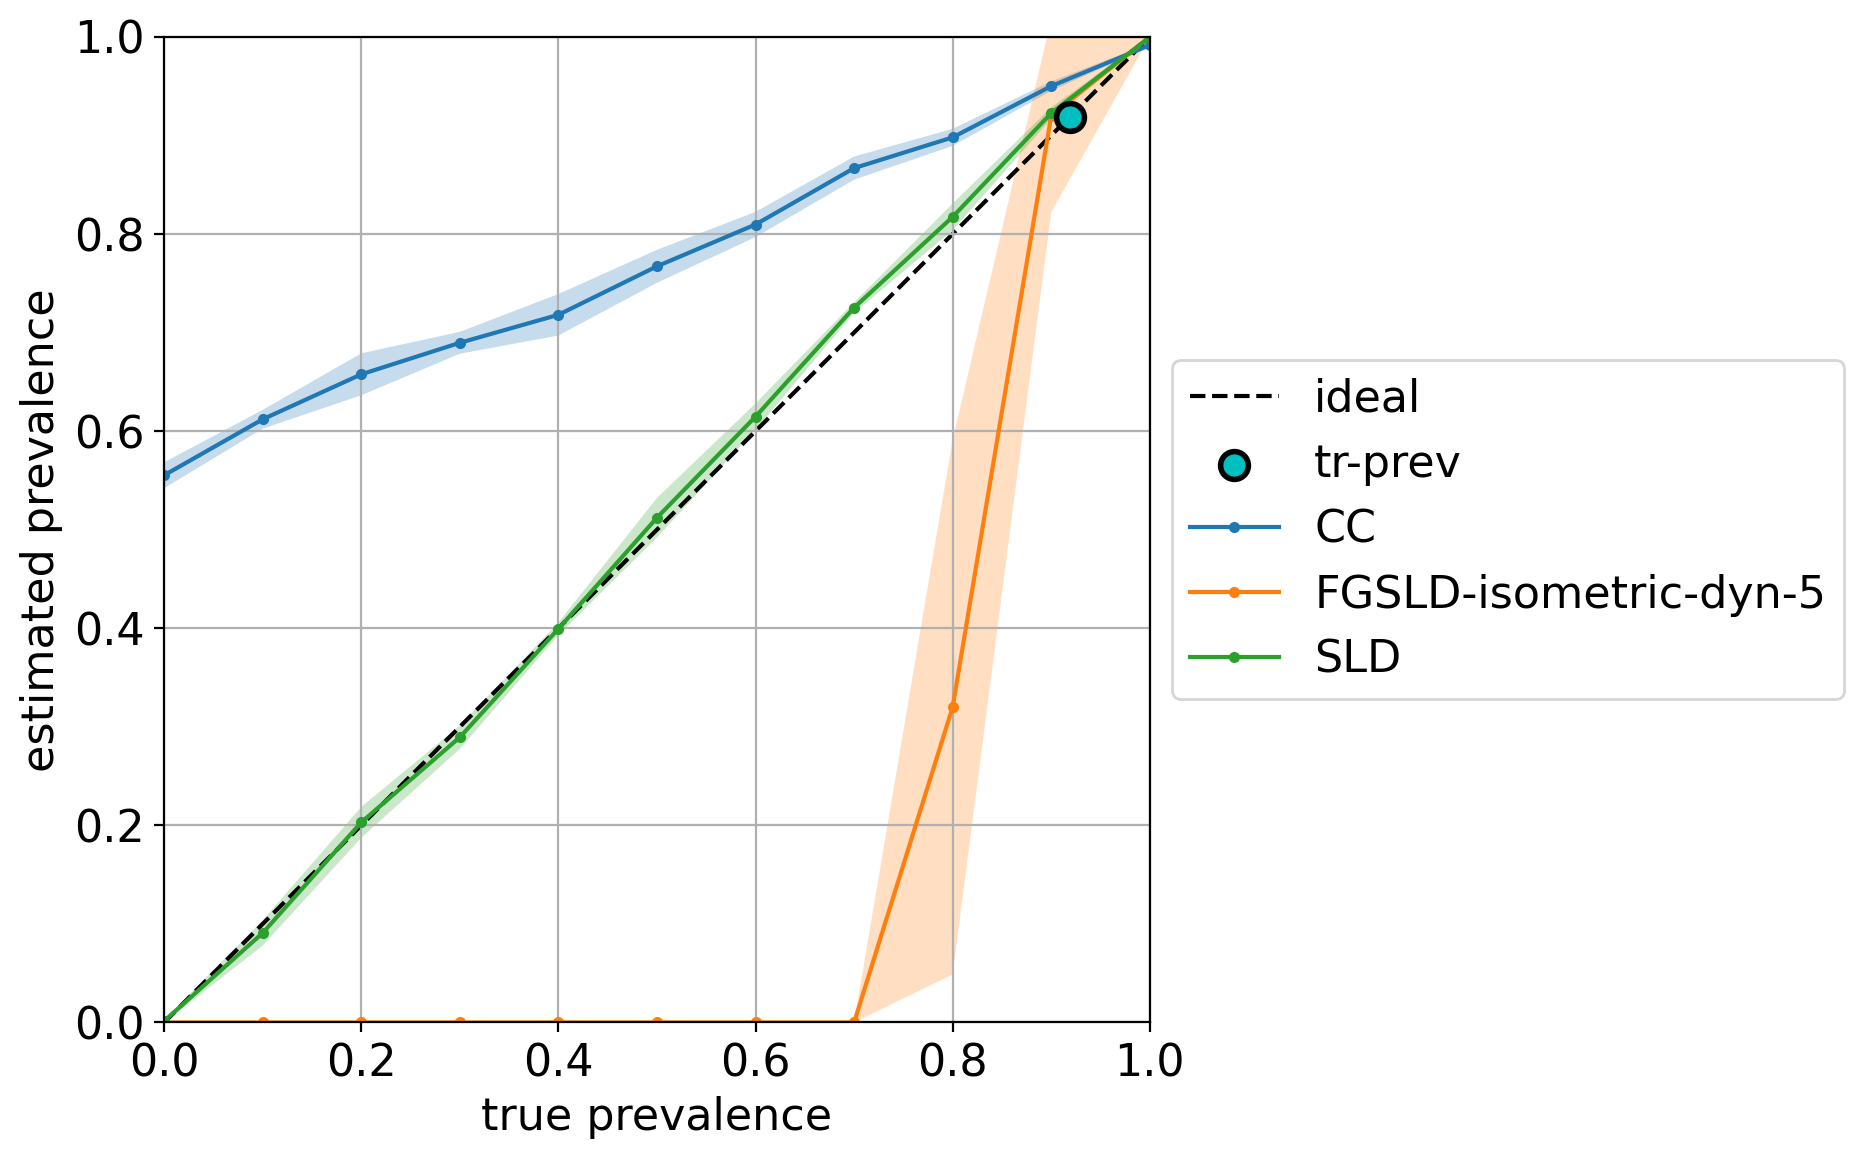
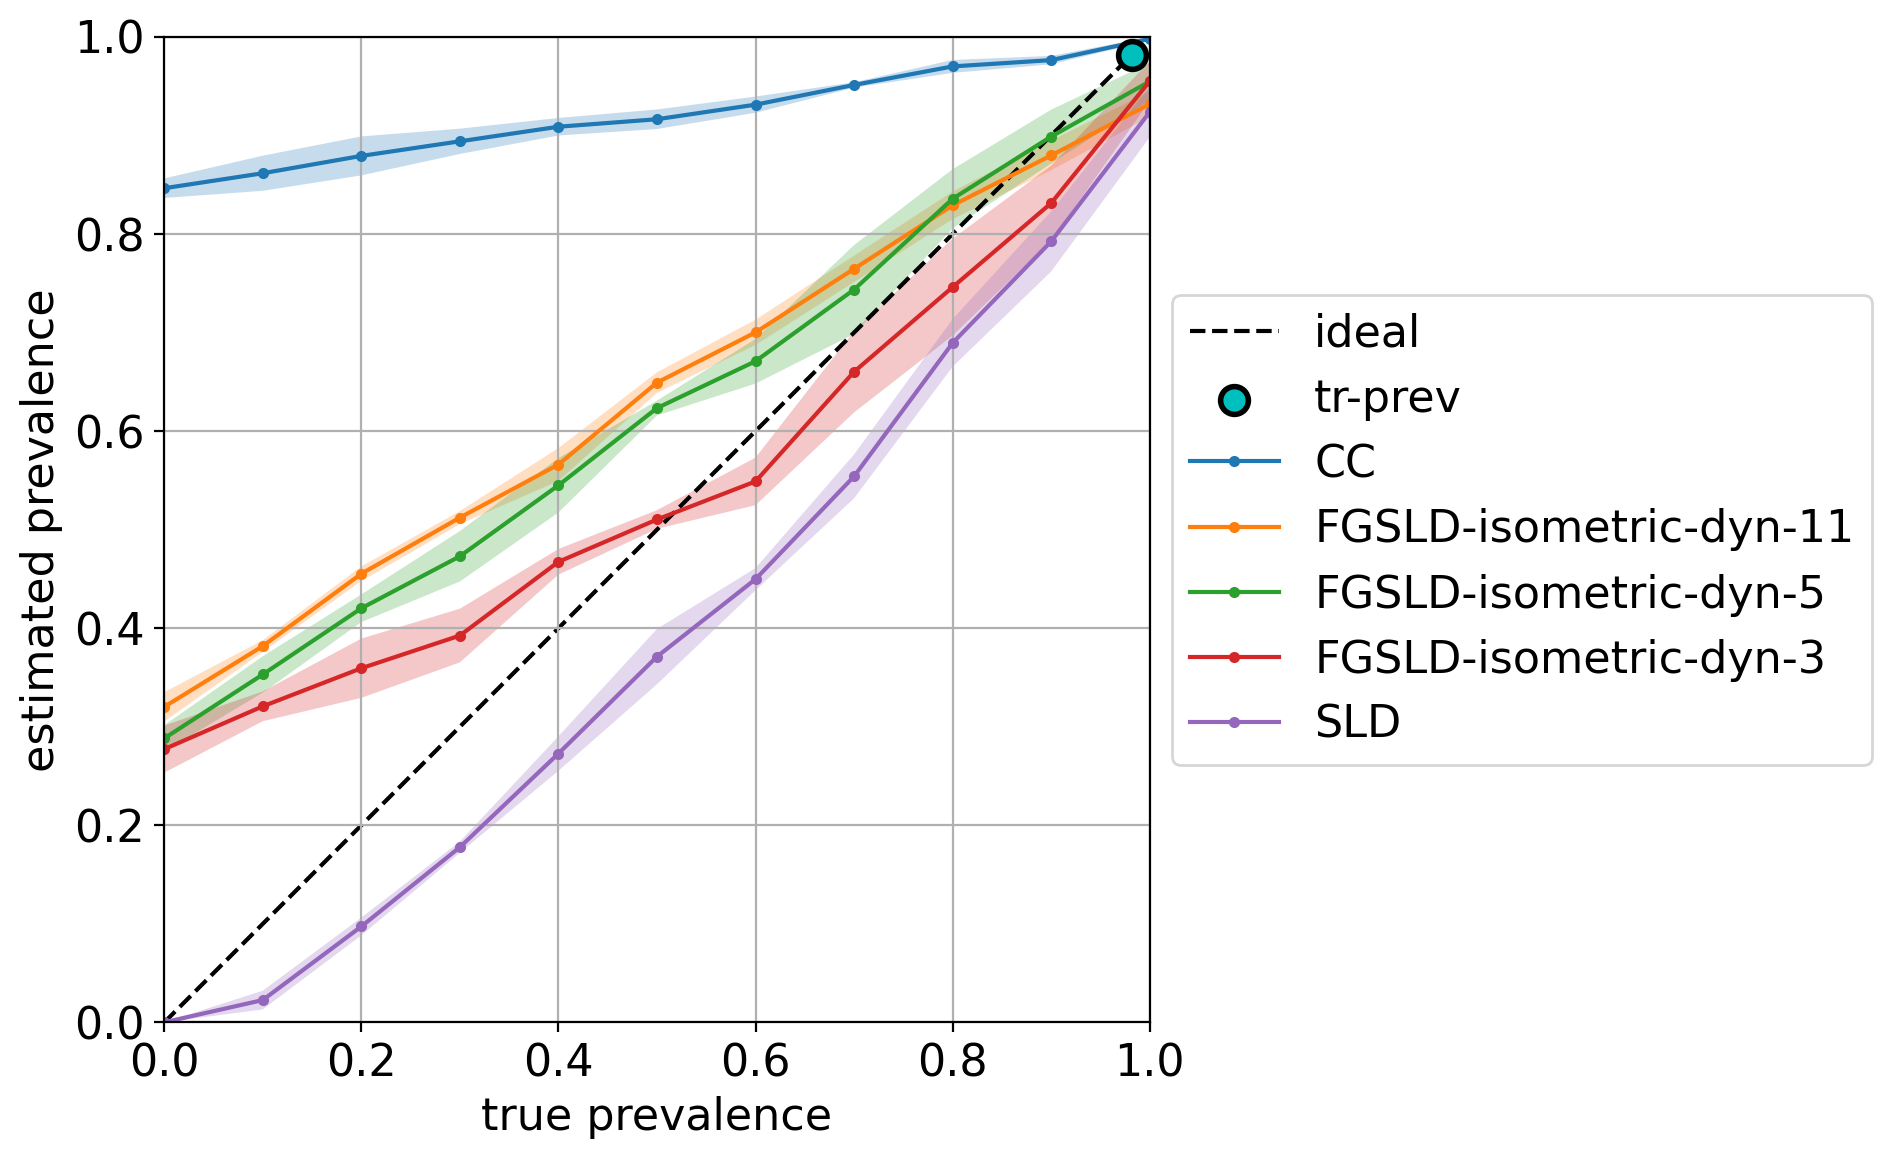
more fgsld

diff --git a/NewMethods/fgsld/fine_grained_sld.py b/NewMethods/fgsld/fine_grained_sld.py
@@ -1,9 +1,9 @@
 import numpy as np
-from metrics import isomerous_bins, isometric_bins
-from em import History, get_measures_single_history
+from NewMethods.fgsld.metrics import isomerous_bins, isometric_bins
+from NewMethods.fgsld.em import History, get_measures_single_history
 from sklearn.model_selection import cross_val_predict
 import math
-
+from scipy.special import softmax
 
 class FineGrainedSLD:
     def __init__(self, x_tr, x_te, y_tr, tr_priors, clf, n_bins=10):
@@ -16,7 +16,7 @@ class FineGrainedSLD:
         self.history: [History] = []
         self.multi_class = False
 
-    def run(self, isomerous_binning, epsilon=1e-6, compute_bins_at_every_iter=True, return_posteriors_hist=False):
+    def run(self, isomerous_binning, epsilon=1e-6, compute_bins_at_every_iter=True):
         """
         Run the FGSLD algorithm.
 
@@ -26,22 +26,18 @@ class FineGrainedSLD:
         :param return_posteriors_hist: whether to return posteriors at every iteration or not.
         :return: If `return_posteriors_hist` is true, the returned posteriors will be a list of numpy arrays, else a single numpy array with posteriors at last iteration.
         """
-        smoothing_tr = 1 / (2 * self.tr_preds.shape[0])
-        smoothing_te = 1 / (2 * self.te_preds.shape[0])
+        smoothing_tr = 1e-9  # 1 / (2 * self.tr_preds.shape[0])
+        smoothing_te = 1e-9  # 1 / (2 * self.te_preds.shape[0])
         s = 0
         tr_bin_priors = np.zeros((self.n_bins, self.tr_preds.shape[1]), dtype=np.float)
         te_bin_priors = np.zeros((self.n_bins, self.te_preds.shape[1]), dtype=np.float)
         tr_bins = self.__create_bins(training=True, isomerous_binning=isomerous_binning)
-        te_bins = self.__create_bins(training=False, isomerous_binning=isomerous_binning)
         self.__compute_bins_priors(tr_bin_priors, self.tr_preds, tr_bins, smoothing_tr)
 
+        te_preds_cp = self.te_preds.copy()
         val = 2 * epsilon
-        if return_posteriors_hist:
-            posteriors_hist = [self.te_preds.copy()]
         while not val < epsilon and s < 1000:
-            assert np.all(np.around(self.te_preds.sum(axis=1), 4) == 1), f"Probabilities do not sum to 1:\ns={s}, " \
-                                                                         f"probs={self.te_preds.sum(axis=1)}"
-            if compute_bins_at_every_iter:
+            if compute_bins_at_every_iter or s==0:
                 te_bins = self.__create_bins(training=False, isomerous_binning=isomerous_binning)
 
             if s == 0:
@@ -50,34 +46,47 @@ class FineGrainedSLD:
                 te_bin_priors_prev = te_bin_priors.copy()
             self.__compute_bins_priors(te_bin_priors, self.te_preds, te_bins, smoothing_te)
 
-            te_preds_cp = self.te_preds.copy()
             for label_idx, bins in te_bins.items():
                 for i, bin_ in enumerate(bins):
                     if bin_.shape[0] == 0:
                         continue
-                    te = te_bin_priors[i][label_idx]
-                    tr = tr_bin_priors[i][label_idx]
-                    # local_min = (math.floor(tr * 10) / 10)
+                    alpha = 1
+                    beta = 0.1
+                    local_te = te_bin_priors[i][label_idx]
+                    global_te = self.te_preds[:,label_idx].mean()
+                    te = local_te*alpha + global_te*(1-alpha)
+                    local_tr = tr_bin_priors[i][label_idx]
+                    global_tr = self.tr_priors[label_idx]
+                    tr = local_tr*beta + global_tr*(1-beta)
+                    #local_min = (math.floor(tr * self.n_bins) / self.n_bins)
                     # local_max = local_min + .1
                     # trans = lambda l: min(max((l - local_min) / 1, 0), 1)
-                    trans = lambda l: l
-                    self.te_preds[:, label_idx][bin_] = (te_preds_cp[:, label_idx][bin_]) * \
-                                                        (trans(te) / trans(tr))
+                    assert not isomerous_binning, 'not tested'
+                    #trans = lambda l: l - local_min
+                    # trans = lambda l: l
+                    # ratio = (trans(te) / trans(tr))
+                    #ratio = np.clip(ratio, 0.1, 2)
+                    #ratio = ratio**3
+                    #self.te_preds[:, label_idx][bin_] = (te_preds_cp[:, label_idx][bin_]) * ratio
+                    old_posterior = te_preds_cp[:, label_idx][bin_]
+                    lr = 1
+                    #self.te_preds[:, label_idx][bin_] = np.clip(old_posterior + (te-tr)*lr, 0, None)
+                    self.te_preds[:, label_idx][bin_] = np.clip(old_posterior + (te - tr) * lr, 0, None)
+                    #self.te_preds[:, label_idx][bin_] = (te_preds_cp[:, label_idx][bin_]) * ratio
 
             # Normalization step
             self.te_preds = (self.te_preds / self.te_preds.sum(axis=1, keepdims=True))
+            #self.te_preds = softmax(self.te_preds, axis=1)
 
-            val = 0
-            for label_idx in range(te_bin_priors.shape[1]):
-                temp = max(abs((te_bin_priors[:, label_idx] / te_bin_priors_prev[:, label_idx]) - 1))
-                if temp > val:
-                    val = temp
+            val = np.max(np.abs(te_bin_priors / te_bin_priors_prev) - 1)
             s += 1
-            if return_posteriors_hist:
-                posteriors_hist.append(self.te_preds.copy())
-        if return_posteriors_hist:
-            return self.te_preds.mean(axis=0), posteriors_hist
-        return self.te_preds.mean(axis=0), self.te_preds
+
+        self.iterations = s
+
+        priors = self.te_preds.mean(axis=0)
+        posteriors = self.te_preds
+
+        return priors, posteriors
 
     def __compute_bins_priors(self, bin_priors_placeholder, posteriors, bins, smoothing):
         for label_idx, bins in bins.items():
@@ -85,22 +94,9 @@ class FineGrainedSLD:
                 if bin_.shape[0] == 0:
                     bin_priors_placeholder[i, label_idx] = smoothing
                     continue
-                numerator = posteriors[:, label_idx][bin_].mean()
+                numerator = posteriors[bin_, label_idx].mean()
                 bin_prior = (numerator + smoothing) / (1 + self.n_bins * smoothing)  # normalize priors
                 bin_priors_placeholder[i, label_idx] = bin_prior
-
-    def __find_bin_idx(self, label_bins: [np.array], idx: int or list):
-        if hasattr(idx, '__len__'):
-            idxs = np.zeros(len(idx), dtype=np.int)
-            for i, bin_ in enumerate(label_bins):
-                for j, id_ in enumerate(idx):
-                    if id_ in bin_:
-                        idxs[j] = i
-            return idxs
-        else:
-            for i, bin_ in enumerate(label_bins):
-                if idx in bin_:
-                    return i
 
     def __create_bins(self, training: bool, isomerous_binning: bool):
         bins = {}
@@ -111,6 +107,6 @@ class FineGrainedSLD:
         else:
             intervals = np.linspace(0., 1., num=self.n_bins, endpoint=False)
             for label_idx in range(preds.shape[1]):
-                bins_ = isometric_bins(label_idx, preds, intervals, 0.1)
+                bins_ = isometric_bins(label_idx, preds, intervals)
                 bins[label_idx] = [bins_[i] for i in intervals]
         return bins

diff --git a/NewMethods/fgsld/fglsd_test.py b/NewMethods/fgsld/fglsd_test.py
@@ -1,13 +1,15 @@
 from sklearn.calibration import CalibratedClassifierCV
+from sklearn.linear_model import LogisticRegression
 from sklearn.svm import LinearSVC
-from fgsld.fgsld_quantifiers import FakeFGLSD
+from fgsld_quantifiers import FakeFGLSD
 from method.aggregative import EMQ, CC
 import quapy as qp
+import numpy as np
 
 
 qp.environ['SAMPLE_SIZE'] = 500
 
-dataset = qp.datasets.fetch_reviews('kindle')
+dataset = qp.datasets.fetch_reviews('hp')
 qp.data.preprocessing.text2tfidf(dataset, min_df=5, inplace=True)
 
 training = dataset.training
@@ -15,22 +17,22 @@ test = dataset.test
 
 cls = CalibratedClassifierCV(LinearSVC())
 
+#cls = LogisticRegression()
+
 
 method_names, true_prevs, estim_prevs, tr_prevs = [], [], [], []
 
 for model, model_name in [
     (CC(cls), 'CC'),
-    # (FakeFGLSD(cls, nbins=5, isomerous=False, recompute_bins=False), 'FGSLD-isometric-stat-5'),
-    (FakeFGLSD(cls, nbins=5, isomerous=True, recompute_bins=True), 'FGSLD-isometric-dyn-5'),
-    # (FakeFGLSD(cls, nbins=5, isomerous=True, recompute_bins=False), 'FGSLD-isomerous-stat-5'),
-    # (FakeFGLSD(cls, nbins=10, isomerous=True, recompute_bins=True), 'FGSLD-isomerous-dyn-10'),
-    #(FakeFGLSD(cls, nbins=5, isomerous=False), 'FGSLD-5'),
-    #(FakeFGLSD(cls, nbins=10, isomerous=False), 'FGSLD-10'),
-    #(FakeFGLSD(cls, nbins=50, isomerous=False), 'FGSLD-50'),
-    #(FakeFGLSD(cls, nbins=100, isomerous=False), 'FGSLD-100'),
-#    (FakeFGLSD(cls, nbins=1, isomerous=False), 'FGSLD-1'),
-    #(FakeFGLSD(cls, nbins=10, isomerous=True), 'FGSLD-10-ISO'),
-    # (FakeFGLSD(cls, nbins=50, isomerous=False), 'FGSLD-50'),
+#    (FakeFGLSD(cls, nbins=20, isomerous=False, recompute_bins=True), 'FGSLD-isometric-dyn-20'),
+    (FakeFGLSD(cls, nbins=11, isomerous=False, recompute_bins=True), 'FGSLD-isometric-dyn-11'),
+    #(FakeFGLSD(cls, nbins=8, isomerous=False, recompute_bins=True), 'FGSLD-isometric-dyn-8'),
+    #(FakeFGLSD(cls, nbins=6, isomerous=False, recompute_bins=True), 'FGSLD-isometric-dyn-6'),
+    (FakeFGLSD(cls, nbins=5, isomerous=False, recompute_bins=True), 'FGSLD-isometric-dyn-5'),
+    #(FakeFGLSD(cls, nbins=4, isomerous=False, recompute_bins=True), 'FGSLD-isometric-dyn-4'),
+    (FakeFGLSD(cls, nbins=3, isomerous=False, recompute_bins=True), 'FGSLD-isometric-dyn-3'),
+#    (FakeFGLSD(cls, nbins=1, isomerous=False, recompute_bins=True), 'FGSLD-isometric-dyn-1'),
+#    (FakeFGLSD(cls, nbins=3, isomerous=False, recompute_bins=False), 'FGSLD-isometric-sta-3'),
     (EMQ(cls), 'SLD'),
 ]:
     print('running ', model_name)
@@ -42,6 +44,8 @@ for model, model_name in [
     true_prevs.append(true_prev)
     estim_prevs.append(estim_prev)
     tr_prevs.append(training.prevalence())
+    #if hasattr(model, 'iterations'):
+    #    print(f'iterations ave={np.mean(model.iterations):.3f}, min={np.min(model.iterations):.3f}, max={np.max(model.iterations):.3f}')
 
 
 qp.plot.binary_diagonal(method_names, true_prevs, estim_prevs, train_prev=tr_prevs[0], savepath='./plot_fglsd.png')

diff --git a/quapy/method/aggregative.py b/quapy/method/aggregative.py
@@ -352,6 +352,7 @@ class EMQ(AggregativeProbabilisticQuantifier):
 
     @classmethod
     def EM(cls, tr_prev, posterior_probabilities, epsilon=EPSILON):
+        #print('training-priors', tr_prev)
         Px = posterior_probabilities
         Ptr = np.copy(tr_prev)
         qs = np.copy(Ptr)  # qs (the running estimate) is initialized as the training prevalence
@@ -359,11 +360,14 @@ class EMQ(AggregativeProbabilisticQuantifier):
         s, converged = 0, False
         qs_prev_ = None
         while not converged and s < EMQ.MAX_ITER:
-            # E-step: ps is Ps(y=+1|xi)
+            #print('iter: ', s)
+            # E-step: ps is Ps(y|xi)
             ps_unnormalized = (qs / Ptr) * Px
-            ps = ps_unnormalized / ps_unnormalized.sum(axis=1).reshape(-1,1)
+            ps = ps_unnormalized / ps_unnormalized.sum(axis=1, keepdims=True)
+            #print(f'\tratio=', qs / Ptr)
+            #print(f'\torigin_posteriors ', Px)
 
-            # M-step: qs_pos is Ps+1(y=+1)
+            # M-step:
             qs = ps.mean(axis=0)
 
             if qs_prev_ is not None and qp.error.mae(qs, qs_prev_) < epsilon and s>10:
@@ -373,7 +377,6 @@ class EMQ(AggregativeProbabilisticQuantifier):
             s += 1
 
         if not converged:
-            #raise UserWarning('the method has reached the maximum number of iterations; it might have not converged')
             print('[warning] the method has reached the maximum number of iterations; it might have not converged')
 
         return qs, ps

diff --git a/NewMethods/experiments.py b/NewMethods/experiments.py
@@ -1,5 +1,6 @@
 from sklearn.linear_model import LogisticRegression
 import quapy as qp
+from NewMethods.fgsld.fgsld_quantifiers import FakeFGLSD
 from classification.methods import PCALR
 from method.meta import QuaNet
 from method.non_aggregative import MaximumLikelihoodPrevalenceEstimation
@@ -36,8 +37,10 @@ def experimental_models():
     svmperf_params = {'C': __C_range}
     #yield 'paccsld', PACCSLD(newLR()), lr_params
     # yield 'hdysld', OneVsAll(HDySLD(newLR())), lr_params  # <-- promising!
-    yield 'PACC(5)', PACC(newLR(), val_split=5), {}
-    yield 'PACC(10)', PACC(newLR(), val_split=10), {}
+    #yield 'PACC(5)', PACC(newLR(), val_split=5), {}
+    #yield 'PACC(10)', PACC(newLR(), val_split=10), {}
+    yield 'FGSLD(3)', FakeFGLSD(newLR(), nbins=3, isomerous=False, recompute_bins=True), {}
+    yield 'FGSLD(5)', FakeFGLSD(newLR(), nbins=5, isomerous=False, recompute_bins=True), {}
 
 
 
@@ -209,7 +212,7 @@ if __name__ == '__main__':
     print(f'Result folder: {args.results}')
     np.random.seed(0)
 
-    optim_losses = ['mae', 'mrae']
+    optim_losses = ['mae']
     datasets = qp.datasets.TWITTER_SENTIMENT_DATASETS_TRAIN
 
     qp.util.parallel(run, itertools.product(optim_losses, datasets, experimental_models()), n_jobs=settings.N_JOBS)

diff --git a/NewMethods/fgsld/metrics.py b/NewMethods/fgsld/metrics.py
@@ -73,10 +73,21 @@ def brier_decomposition(bins, true_labels, predicted_labels, class_=1):
     return calibration_score / (labels_len * len(bins)), refinement_score / (labels_len * len(bins))
 
 
-def isometric_bins(label_index, predicted_labels, bin_intervals, step):
+#def isometric_bins(label_index, predicted_labels, bin_intervals, step):
+#    predicted_class_label = predicted_labels[:, label_index]
+#    return {interv: np.where(np.logical_and(interv <= predicted_class_label, predicted_class_label < interv + step))[0]
+#            for interv in bin_intervals}
+
+def isometric_bins(label_index, predicted_labels, bin_intervals):
+    def next_intv(i):
+        return bin_intervals[i + 1] if (i + 1) < len(bin_intervals) else 1.
     predicted_class_label = predicted_labels[:, label_index]
-    return {interv: np.where(np.logical_and(interv <= predicted_class_label, predicted_class_label < interv + step))[0]
-            for interv in bin_intervals}
+    return {
+        interv:
+            np.where(np.logical_and(interv <= predicted_class_label, predicted_class_label < next_intv(i)))[
+                0]
+        for i, interv in enumerate(bin_intervals)
+    }
 
 
 def isomerous_bins(label_index, predicted_labels, n):

diff --git a/NewMethods/fgsld/fgsld_quantifiers.py b/NewMethods/fgsld/fgsld_quantifiers.py
@@ -14,6 +14,7 @@ class FakeFGLSD(BaseQuantifier):
         self.nbins = nbins
         self.isomerous = isomerous
         self.recompute_bins = recompute_bins
+        self.iterations=[]
 
     def fit(self, data: LabelledCollection):
         self.Xtr, self.ytr = data.Xy
@@ -24,6 +25,7 @@ class FakeFGLSD(BaseQuantifier):
         tr_priors = F.prevalence_from_labels(self.ytr, n_classes=2)
         fgsld = FineGrainedSLD(self.Xtr, instances, self.ytr, tr_priors, self.learner, n_bins=self.nbins)
         priors, posteriors = fgsld.run(self.isomerous, compute_bins_at_every_iter=self.recompute_bins)
+        self.iterations.append(fgsld.iterations)
         return priors
 
     def get_params(self, deep=True):

diff --git a/NewMethods/fgsld/em.py b/NewMethods/fgsld/em.py
@@ -5,7 +5,7 @@ from collections import namedtuple
 from sklearn.metrics import brier_score_loss
 from sklearn.preprocessing import MultiLabelBinarizer
 
-from metrics import smoothmacroF1, isometric_brier_decomposition, isomerous_brier_decomposition
+from NewMethods.fgsld.metrics import smoothmacroF1, isometric_brier_decomposition, isomerous_brier_decomposition
 
 History = namedtuple('History', ('posteriors', 'priors', 'y', 'iteration', 'stopping_criterium'))
 MeasureSingleHistory = namedtuple('MeasureSingleHistory', (

diff --git a/NewMethods/evaluate_results.py b/NewMethods/evaluate_results.py
@@ -32,4 +32,4 @@ def evaluate_results(methods, datasets, error_name):
     print(f'Ave: {np.mean(all):.3f}')
 
 
-evaluate_results(methods=['epacc*mae1k'], datasets=['*'], error_name='mae')
+evaluate_results(methods=['*'], datasets=['*'], error_name='mae')
